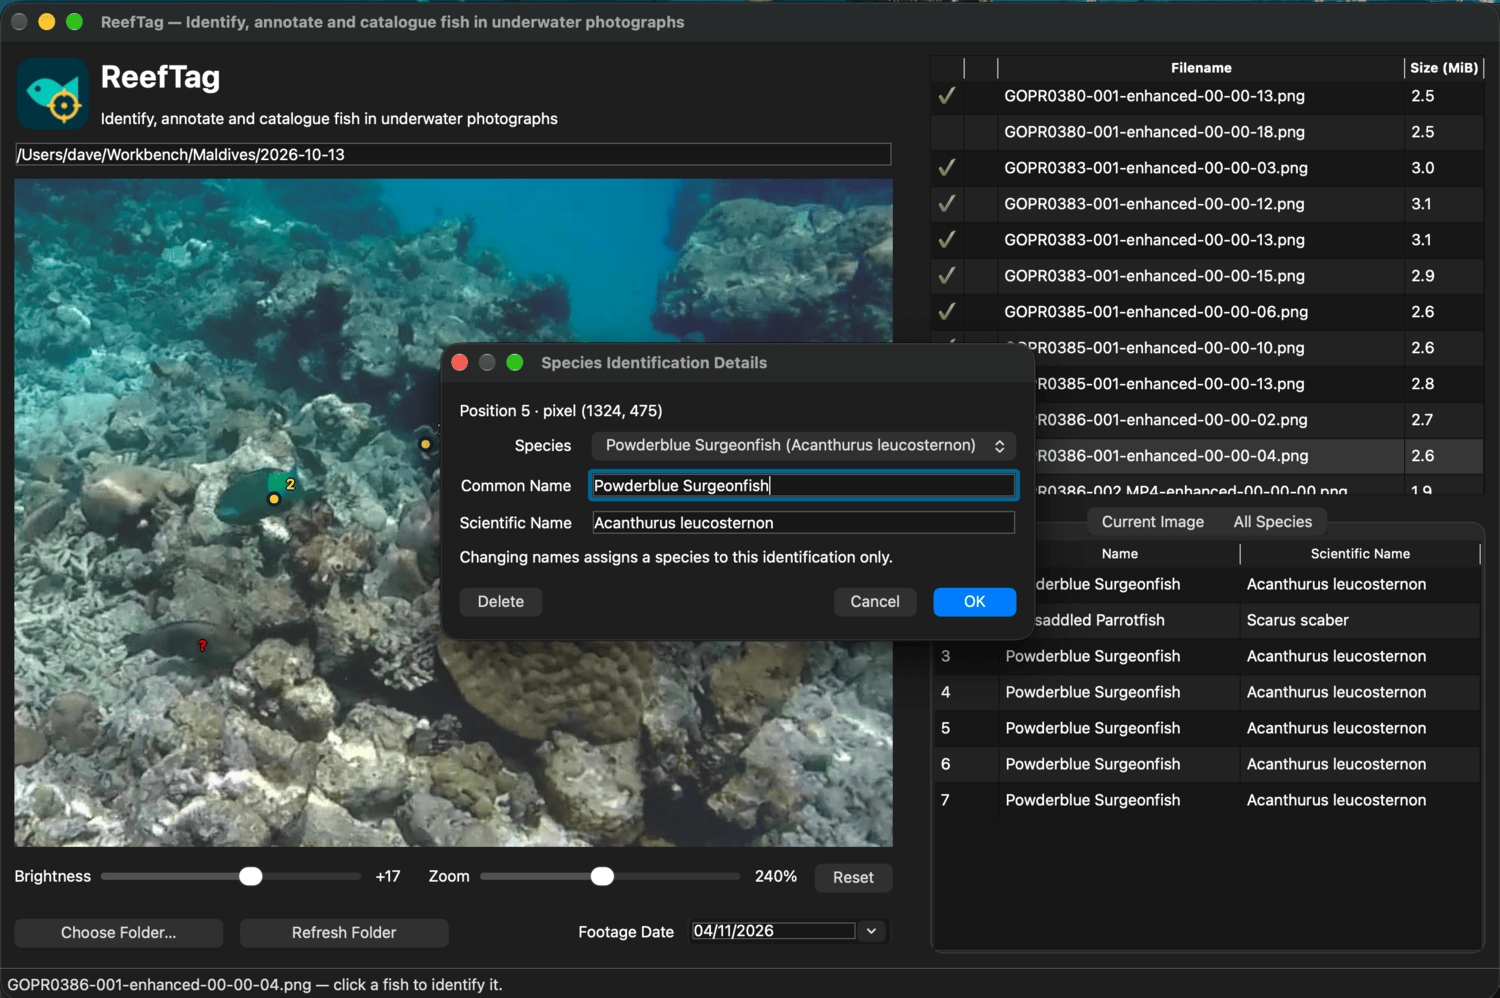
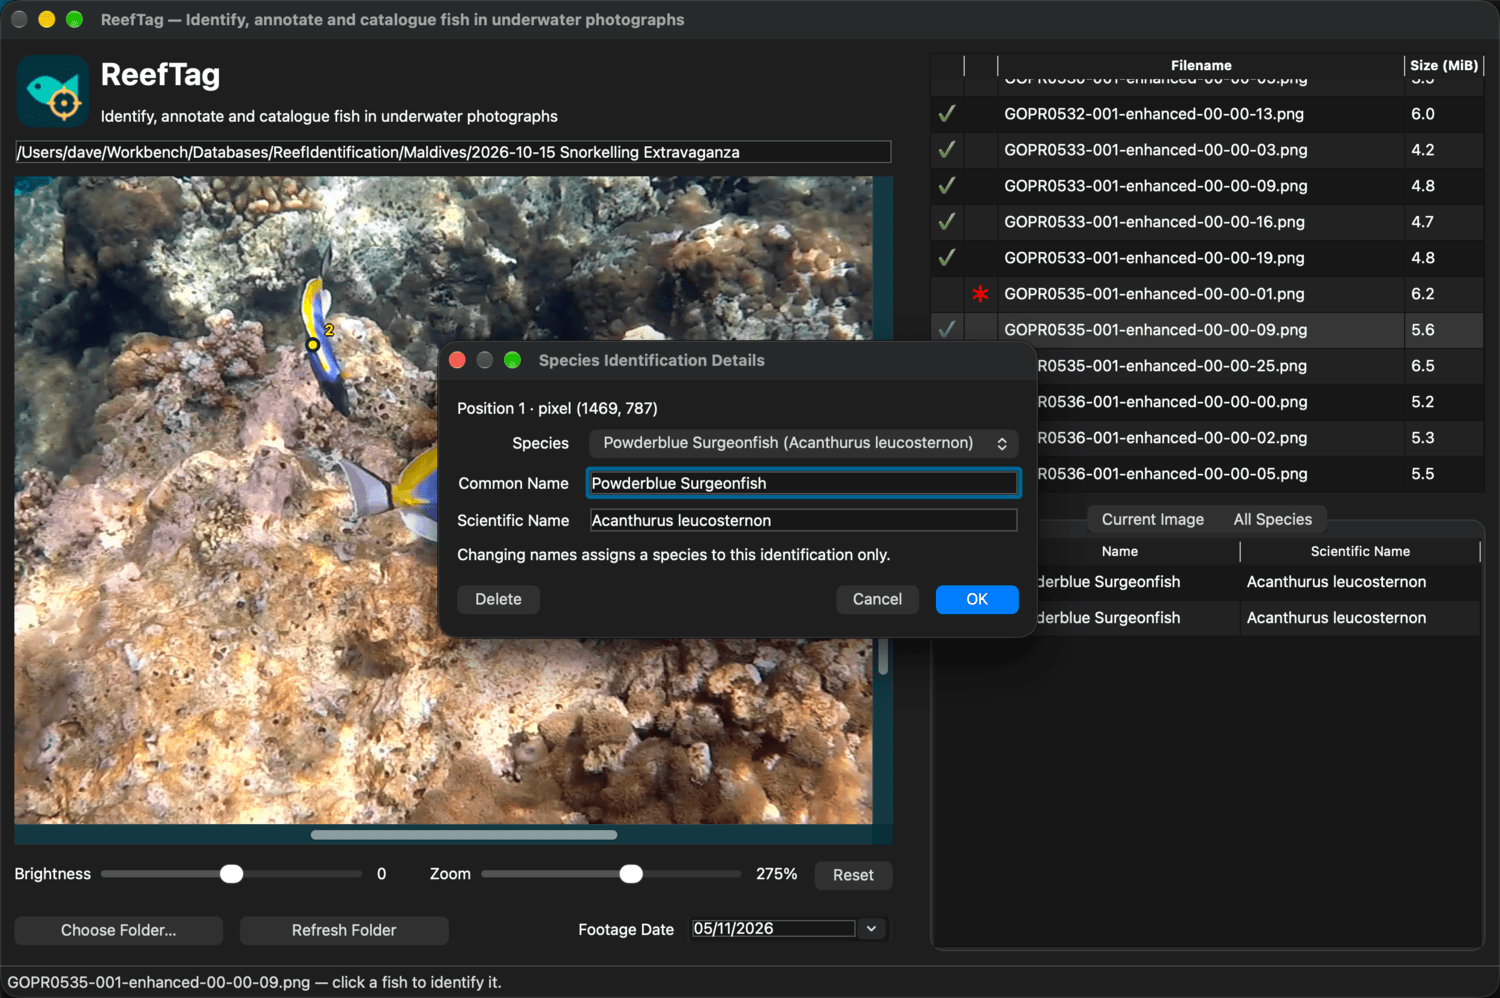
Added scrollbars to the image preview

diff --git a/src/reef_tag/ui/image_view.py b/src/reef_tag/ui/image_view.py
@@ -1,8 +1,8 @@
 """Read-only image preview and screen-space marker interaction."""
 
-from PySide6.QtCore import QPointF, QRectF, Qt, Signal
-from PySide6.QtGui import QColor, QMouseEvent, QPainter, QPaintEvent, QPen, QPixmap
-from PySide6.QtWidgets import QWidget
+from PySide6.QtCore import QPointF, QRect, QRectF, Qt, Signal
+from PySide6.QtGui import QColor, QMouseEvent, QPainter, QPaintEvent, QPen, QPixmap, QResizeEvent
+from PySide6.QtWidgets import QScrollBar, QWidget
 
 from reef_tag.image_geometry import ImageGeometry
 from reef_tag.models import Identification, PendingIdentification
@@ -33,7 +33,76 @@ class ImageView(QWidget):
         self._drag_position: QPointF | None = None
         self.annotations: list[Identification] = []
         self.pending: list[PendingIdentification] = []
+        self.horizontal_scrollbar = QScrollBar(Qt.Orientation.Horizontal, self)
+        self.vertical_scrollbar = QScrollBar(Qt.Orientation.Vertical, self)
+        self.horizontal_scrollbar.setAccessibleName("Image horizontal position")
+        self.vertical_scrollbar.setAccessibleName("Image vertical position")
+        self.horizontal_scrollbar.valueChanged.connect(self._scroll_changed)
+        self.vertical_scrollbar.valueChanged.connect(self._scroll_changed)
         self.setMinimumSize(300, 250)
+        self._sync_scrollbars()
+
+    def _preview_rect(self) -> QRect:
+        """Reserve permanent space for both scrollbar tracks."""
+        return QRect(
+            0,
+            0,
+            max(1, self.width() - self.vertical_scrollbar.sizeHint().width()),
+            max(1, self.height() - self.horizontal_scrollbar.sizeHint().height()),
+        )
+
+    def resizeEvent(self, event: QResizeEvent) -> None:
+        """Keep scrollbar tracks and image bounds aligned after resizing."""
+        super().resizeEvent(event)
+        rect = self._preview_rect()
+        self.horizontal_scrollbar.setGeometry(
+            0, rect.height(), rect.width(), self.height() - rect.height()
+        )
+        self.vertical_scrollbar.setGeometry(
+            rect.width(), 0, self.width() - rect.width(), rect.height()
+        )
+        self._sync_scrollbars()
+
+    def _sync_scrollbars(self) -> None:
+        """Express the bounded pan as a scroll position within the scaled image."""
+        mapping = self.geometry_map()
+        if mapping:
+            self.pan_x, self.pan_y = mapping.bounded_pan
+        for bar, extent, viewport, pan in (
+            (
+                self.horizontal_scrollbar,
+                self.pixmap.width() * mapping.scale if mapping else 0,
+                self._preview_rect().width(),
+                self.pan_x,
+            ),
+            (
+                self.vertical_scrollbar,
+                self.pixmap.height() * mapping.scale if mapping else 0,
+                self._preview_rect().height(),
+                self.pan_y,
+            ),
+        ):
+            overflow = max(0.0, extent - viewport)
+            blocked = bar.blockSignals(True)
+            bar.setRange(0, round(overflow))
+            bar.setPageStep(viewport)
+            bar.setValue(round(overflow / 2 - pan))
+            bar.blockSignals(blocked)
+
+    def _scroll_changed(self, value: int) -> None:
+        """Move the image with either scrollbar while retaining source coordinates."""
+        mapping = self.geometry_map()
+        if mapping is None:
+            return
+        self.pan_x = (
+            max(0, self.pixmap.width() * mapping.scale - mapping.viewport_width) / 2
+            - self.horizontal_scrollbar.value()
+        )
+        self.pan_y = (
+            max(0, self.pixmap.height() * mapping.scale - mapping.viewport_height) / 2
+            - self.vertical_scrollbar.value()
+        )
+        self.update()
 
     def set_image(self, pixmap: QPixmap, annotations: list[Identification]) -> None:
         """Replace display state without touching the original image."""
@@ -51,6 +120,7 @@ class ImageView(QWidget):
             if self.zoom > 1 and not self.pixmap.isNull()
             else Qt.CursorShape.ArrowCursor
         )
+        self._sync_scrollbars()
         self.update()
 
     def set_zoom(self, percentage: int) -> None:
@@ -68,6 +138,7 @@ class ImageView(QWidget):
             if self.zoom > 1 and not self.pixmap.isNull()
             else Qt.CursorShape.ArrowCursor
         )
+        self._sync_scrollbars()
         self.update()
 
     def set_brightness(self, value: int) -> None:
@@ -88,8 +159,8 @@ class ImageView(QWidget):
         return ImageGeometry(
             self.pixmap.width(),
             self.pixmap.height(),
-            self.width(),
-            self.height(),
+            self._preview_rect().width(),
+            self._preview_rect().height(),
             self.zoom,
             self.pan_x,
             self.pan_y,
@@ -99,10 +170,13 @@ class ImageView(QWidget):
         """Paint the photograph and legible yellow markers in logical screen pixels."""
         painter = QPainter(self)
         painter.fillRect(self.rect(), QColor("#102c35"))
+        painter.setClipRect(self._preview_rect())
         mapping = self.geometry_map()
         if mapping is None:
             painter.setPen(QColor("#b9d7db"))
-            painter.drawText(self.rect(), Qt.AlignmentFlag.AlignCenter, "Choose a folder and image")
+            painter.drawText(
+                self._preview_rect(), Qt.AlignmentFlag.AlignCenter, "Choose a folder and image"
+            )
             return
         painter.setRenderHint(QPainter.RenderHint.SmoothPixmapTransform)
         left, top = mapping.offset
@@ -127,13 +201,13 @@ class ImageView(QWidget):
         painter.setFont(font)
         for annotation in self.annotations:
             x, y = mapping.to_preview(annotation.x, annotation.y)
-            if not (0 <= x < self.width() and 0 <= y < self.height()):
+            if not (0 <= x < mapping.viewport_width and 0 <= y < mapping.viewport_height):
                 continue
             painter.setPen(QPen(QColor("#16242a"), 3))
             painter.setBrush(QColor("#ffe34d"))
             painter.drawEllipse(QPointF(x, y), 5, 5)
-            label_x = x + 10 if x + 40 < self.width() else x - 30
-            label_y = max(18, min(y - 8, self.height() - 8))
+            label_x = x + 10 if x + 40 < mapping.viewport_width else x - 30
+            label_y = max(18, min(y - 8, mapping.viewport_height - 8))
             text = str(annotation.number)
             painter.setPen(QPen(QColor("black"), 4))
             # Offset shadows keep numerals visible over both sand and dark reef.
@@ -144,7 +218,7 @@ class ImageView(QWidget):
 
         for annotation in self.pending:
             x, y = mapping.to_preview(annotation.x, annotation.y)
-            if not (0 <= x < self.width() and 0 <= y < self.height()):
+            if not (0 <= x < mapping.viewport_width and 0 <= y < mapping.viewport_height):
                 continue
             # Centre the glyph on its saved point, matching the marker hit target.
             rect = QRectF(x - HIT_RADIUS, y - HIT_RADIUS, HIT_RADIUS * 2, HIT_RADIUS * 2)
@@ -200,6 +274,7 @@ class ImageView(QWidget):
         self.pan_x, self.pan_y = pan_x + delta.x(), pan_y + delta.y()
         self.pan_x, self.pan_y = self.geometry_map().bounded_pan
         self._drag_position = event.position()
+        self._sync_scrollbars()
         self.update()
         event.accept()
 

diff --git a/tests/test_ui.py b/tests/test_ui.py
@@ -305,8 +305,8 @@ def test_zoom_right_drag_and_reset(application: QApplication, tmp_path: Path) ->
     application.processEvents()
     mapping = view.geometry_map()
     left, top = mapping.offset
-    assert left <= 0 and left + image.width() * mapping.scale >= view.width()
-    assert top <= 0 and top + image.height() * mapping.scale >= view.height()
+    assert left <= 0 and left + image.width() * mapping.scale >= mapping.viewport_width
+    assert top <= 0 and top + image.height() * mapping.scale >= mapping.viewport_height
     window.brightness_slider.setValue(40)
     window.brightness_reset.click()
     assert view.zoom == 1
@@ -608,3 +608,47 @@ def test_species_filters(
     assert not any(restarted.files.isRowHidden(row) for row in range(4))
     restarted.close()
     connection.close()
+
+
+def test_preview_scrollbars(application: QApplication) -> None:
+    """Scroll both axes, synchronize drag, and restore full tracks at fit zoom."""
+    from PySide6.QtGui import QPixmap
+
+    from reef_tag.ui.image_view import ImageView
+
+    view = ImageView()
+    view.resize(600, 400)
+    view.show()
+    view.set_image(QPixmap(800, 600), [])
+    application.processEvents()
+    horizontal, vertical = view.horizontal_scrollbar, view.vertical_scrollbar
+    assert horizontal.isVisible() and vertical.isVisible()
+    assert horizontal.maximum() == vertical.maximum() == 0
+    view.set_zoom(300)
+    assert horizontal.maximum() > 0 and vertical.maximum() > 0
+    horizontal.setValue(horizontal.maximum())
+    vertical.setValue(vertical.maximum())
+    mapping = view.geometry_map()
+    left, top = mapping.offset
+    assert abs(left + 800 * mapping.scale - mapping.viewport_width) <= 1
+    assert abs(top + 600 * mapping.scale - mapping.viewport_height) <= 1
+    horizontal.setValue(0)
+    vertical.setValue(0)
+    assert view.geometry_map().offset == (0, 0)
+    centre = QPoint(250, 180)
+    QTest.mousePress(view, Qt.MouseButton.RightButton, pos=centre)
+    QTest.mouseMove(view, centre - QPoint(60, 40))
+    QTest.mouseRelease(view, Qt.MouseButton.RightButton, pos=centre - QPoint(60, 40))
+    assert horizontal.value() == 60
+    assert vertical.value() == 40
+    view.resize(700, 450)
+    application.processEvents()
+    assert horizontal.pageStep() == view.geometry_map().viewport_width
+    assert vertical.pageStep() == view.geometry_map().viewport_height
+    view.set_zoom(100)
+    assert horizontal.maximum() == vertical.maximum() == 0
+    assert view.geometry_map().bounded_pan == (0, 0)
+    view.set_zoom(300)
+    view.set_image(QPixmap(), [])
+    assert horizontal.maximum() == vertical.maximum() == 0
+    view.close()
